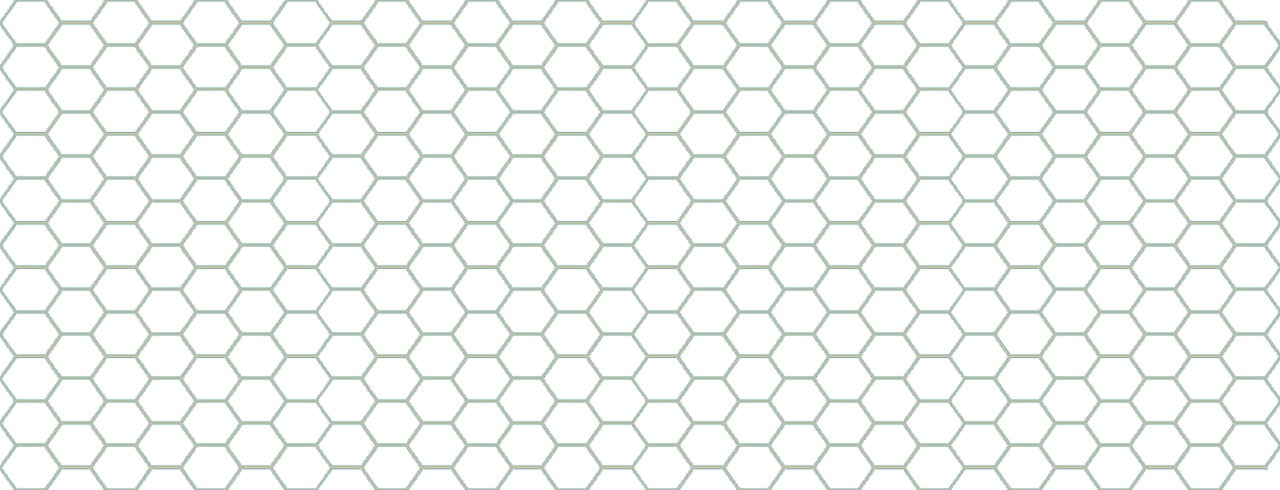
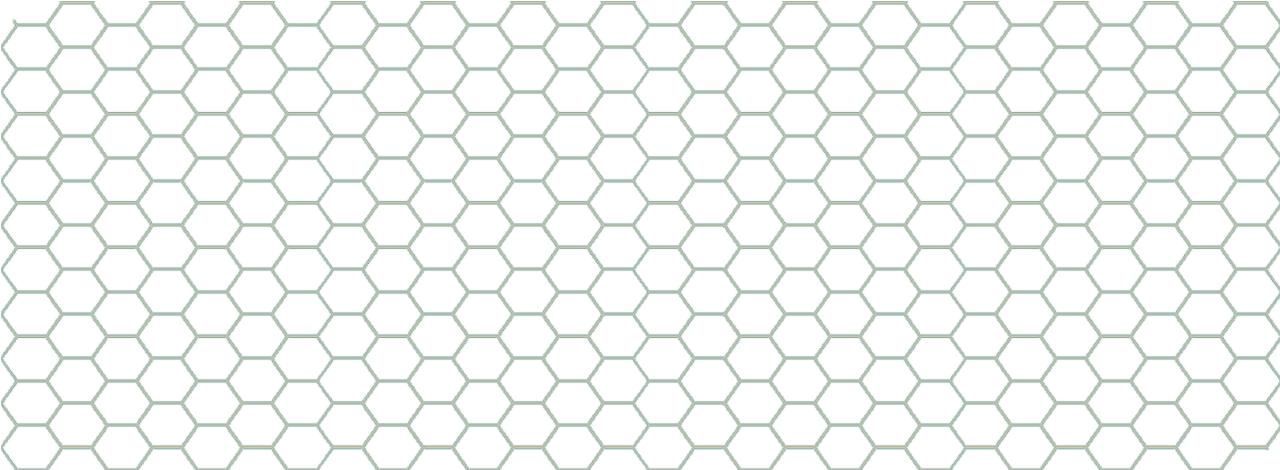
removed one row from the grid

diff --git a/src/gameObject/worldField.js b/src/gameObject/worldField.js
@@ -10,7 +10,7 @@ class WorldField extends Phaser.Group {
     constructor(game, eventHandler) {
         super(game, game.world, 'worldField');
         this.background = this.create(0, 0, 'ui-world-' + eventHandler.world['type']);
-        this.grid = this.create(0, 100, 'ui-arena-grid');
+        this.grid = this.create(0, 110, 'ui-arena-grid');
         
         eventHandler.world.userList.forEach((nickname, index) => {
             let creatureData = eventHandler.world.user[nickname].data.creature;
